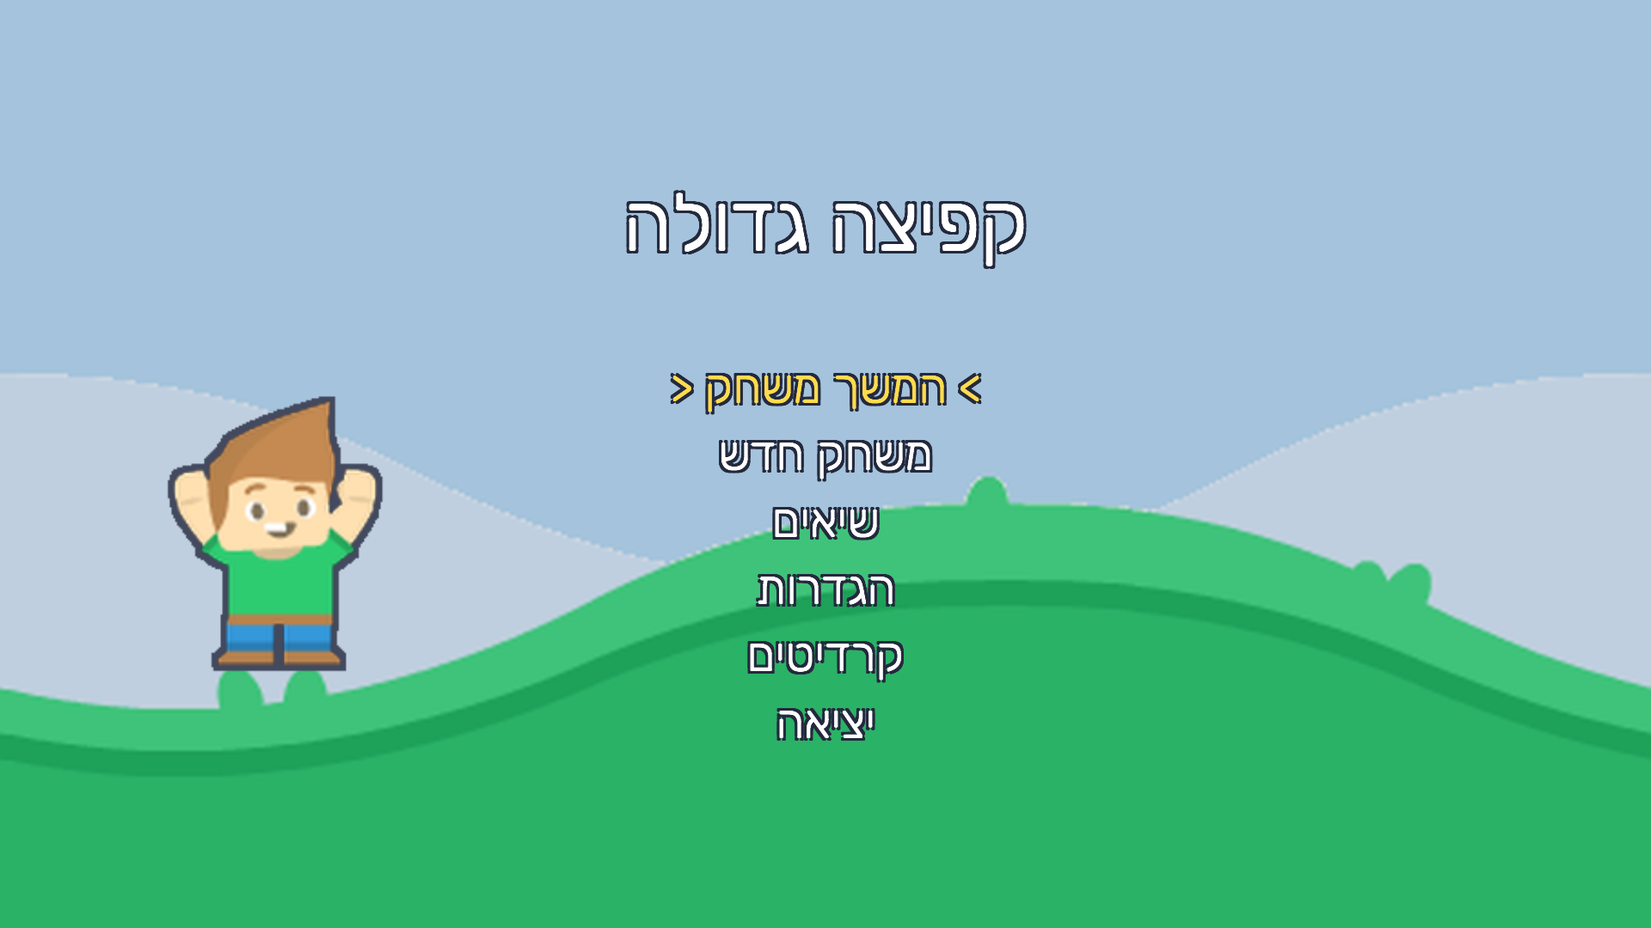
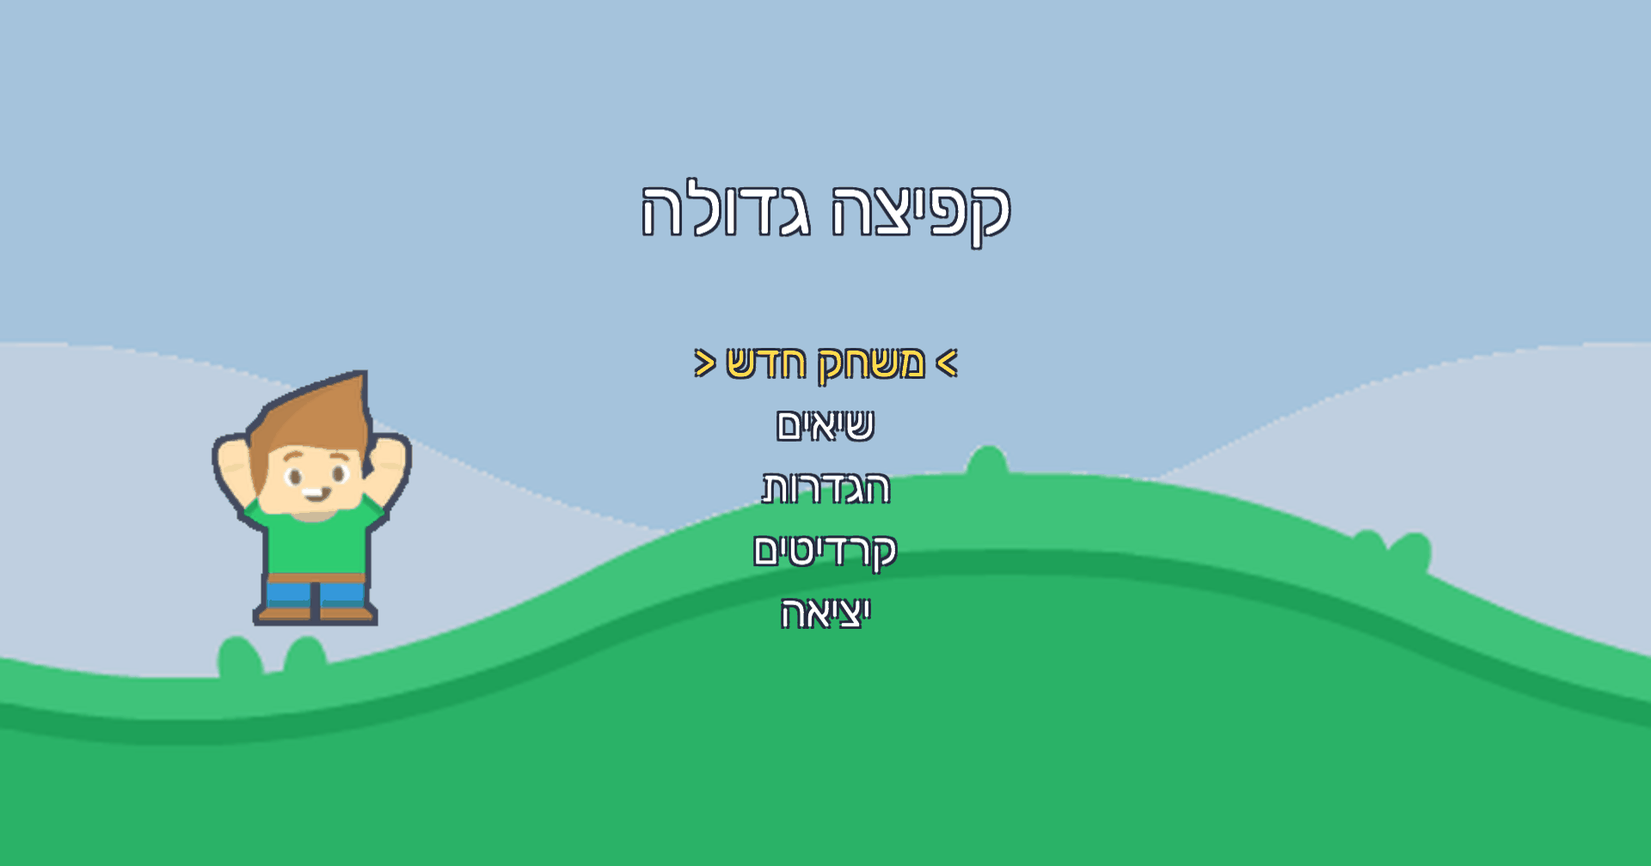
Version 1.2.0: new levels, reachability check, sevivon weapon, touch settings, gamepad, stars and checkpoints
Every level is rebuilt around one idea with its own bonus room, three stars and a
checkpoint. The build now fails if anything required cannot be reached.

diff --git a/docs/index.html b/docs/index.html
@@ -41,27 +41,31 @@ footer a{color:inherit}
 <body>
 <main>
 <h1>קפיצה גדולה</h1>
-<p class="lead">פלטפורמר דו-ממדי בעברית. שני עולמות, שבעה שלבים ובוס אחד.</p>
+<p class="lead">פלטפורמר דו-ממדי בעברית. שבעה שלבים, לכל אחד רעיון משלו: קפיצים, מעליות, טיפוס, רוח, שיטפון, חושך ומרדף.</p>
 
 <section class="downloads" aria-label="הורדה">
 <div>
-<a class="btn phone" href="https://github.com/israelb014/kfitsa-gdola/releases/download/v1.1.0/KfitsaGdola-android.apk"><span>הורדה</span><span dir="ltr">Android</span><small>47 מגה-בייט</small></a>
+<a class="btn phone" href="https://github.com/israelb014/kfitsa-gdola/releases/download/v1.2.0/KfitsaGdola-android.apk"><span>הורדה</span><span dir="ltr">Android</span><small>47 מגה-בייט</small></a>
 <p class="note">נבדק באמולטור, עדיין לא בטלפון אמיתי.</p>
 </div>
 <div>
-<a class="btn" href="https://github.com/israelb014/kfitsa-gdola/releases/download/v1.1.0/KfitsaGdola-linux.tar.gz"><span>הורדה</span><span dir="ltr">Linux</span><small>45 מגה-בייט</small></a>
+<a class="btn" href="https://github.com/israelb014/kfitsa-gdola/releases/download/v1.2.0/KfitsaGdola-linux.tar.gz"><span>הורדה</span><span dir="ltr">Linux</span><small>45 מגה-בייט</small></a>
 </div>
 <div>
-<a class="btn win" href="https://github.com/israelb014/kfitsa-gdola/releases/download/v1.1.0/KfitsaGdola-windows.zip"><span>הורדה</span><span dir="ltr">Windows</span><small>48 מגה-בייט</small></a>
+<a class="btn win" href="https://github.com/israelb014/kfitsa-gdola/releases/download/v1.2.0/KfitsaGdola-windows.zip"><span>הורדה</span><span dir="ltr">Windows</span><small>48 מגה-בייט</small></a>
 <p class="note">הגרסה הזו נבנתה, אבל עדיין לא נבדקה בהרצה.</p>
 </div>
 </section>
 
 <section class="shots" aria-label="תמונות מהמשחק">
 <img src="img/title.png" width="1920" height="1080" alt="מסך הפתיחה של המשחק עם הגיבור והתפריט">
-<img src="img/level1.png" width="1920" height="1080" alt="השלב הראשון בעולם הגבעות הירוקות">
-<img src="img/desert.png" width="1920" height="1080" alt="שלב בעולם המדבר עם קקטוסים ואויבים" loading="lazy">
-<img src="img/boss.png" width="1920" height="1080" alt="הקרב מול מלך הג'לי" loading="lazy">
+<img src="img/l1.png" width="1920" height="1080" alt="שלב הקפיצים בעולם הירוק">
+<img src="img/l6belts.png" width="1920" height="1080" alt="שלב החושך עם מסועים ואור סביב הגיבור" loading="lazy">
+<img src="img/l5.png" width="1920" height="1080" alt="הגאות מציפה את הערוץ בשלב המים" loading="lazy">
+<img src="img/l7.png" width="1920" height="1080" alt="מלך הג'לי רודף אחרי הגיבור" loading="lazy">
+<img src="img/map.png" width="1920" height="1080" alt="מפת המסע עם שלושה כוכבים לכל שלב" loading="lazy">
+<img src="img/power.png" width="1920" height="1080" alt="קופסאות הכוח עם הפרס שמרחף מעליהן" loading="lazy">
+<img src="img/controls.png" width="1920" height="1080" alt="מסך הגדרות השליטה בטלפון" loading="lazy">
 </section>
 
 <section>
@@ -79,7 +83,7 @@ footer a{color:inherit}
 <section>
 <p class="eyebrow" dir="ltr">Linux</p>
 <h2>הרצה מהטרמינל</h2>
-<pre><code>curl -LO https://github.com/israelb014/kfitsa-gdola/releases/download/v1.1.0/KfitsaGdola-linux.tar.gz
+<pre><code>curl -LO https://github.com/israelb014/kfitsa-gdola/releases/download/v1.2.0/KfitsaGdola-linux.tar.gz
 tar xzf KfitsaGdola-linux.tar.gz
 cd linux
 ./KfitsaGdola.x86_64</code></pre>

diff --git a/tools/make_levels.py b/tools/make_levels.py
@@ -54,7 +54,7 @@ def w1l1():
     """Springs. Met on open ground, then the only way up a wall, then chained over pits; the twist is a tower of springs."""
     l = L(214, idea='springs')
     # Met safely: flat ground, nothing to lose
-    l.ground(0, 42, 2); l.put(3, 2, 'S'); l.put(6, 2, '>'); l.put(11, 2, ',')
+    l.ground(0, 42, 2); l.put(9, 2, 'S'); l.put(6, 2, '>'); l.put(11, 2, ',')
     l.put(13, 5, '?'); l.put(16, 5, '!'); l.put(19, 5, '?'); l.put(24, 2, 'e')
     l.put(30, 2, 'T'); l.col(30, 5, 10); l.row(33, 38, 8); l.line(33, 38, 9); l.put(37, 2, '%')
     # The wall: a spring is the only way over. A false wall on the far side hides the first star
@@ -84,7 +84,7 @@ def w1l1():
 def w1l2():
     """Moving platforms. Met over a shallow ditch, then over pits and as lifts; the twist is a relay out of step."""
     l = L(244, idea='moving')
-    l.ground(0, 34, 2); l.put(3, 2, 'S'); l.put(7, 2, '%')
+    l.ground(0, 34, 2); l.put(9, 2, 'S'); l.put(7, 2, '%')
     # Two power boxes right at the start: big, then the sevivon
     l.put(11, 5, '!'); l.put(12, 5, 'b'); l.put(13, 5, 'b'); l.put(14, 5, '!'); l.put(22, 2, 'e'); l.put(26, 2, 'e'); l.put(30, 2, 'n')
     # Met safely: a ditch you can walk out of
@@ -113,7 +113,7 @@ def w1l3():
     W, H = 58, 84
     l = L(W, H, 'climb')
     M = 36
-    l.ground(0, M-1, 2, '#'); l.put(4, 2, 'S'); l.put(9, 2, ','); l.put(14, 2, 'e')
+    l.ground(0, M-1, 2, '#'); l.put(11, 2, 'S'); l.put(9, 2, ','); l.put(14, 2, 'e')
     def slab(y, gap0, gap1):
         l.row(0, gap0-1, y); l.row(gap1+1, M-1, y)
     # Met safely: wide steps, a slab under every part of the climb
@@ -147,7 +147,7 @@ def w1l3():
 def w2l1():
     """Wind. Felt on safe ground, then gaps that need a calm or a tailwind; the twist is rising air that lifts you."""
     l = L(246, idea='wind')
-    l.ground(0, 44, 2); l.put(3, 2, 'S'); l.put(7, 2, 'k'); l.put(12, 5, '!'); l.put(15, 5, '!'); l.put(13, 5, 'b'); l.put(14, 5, 'b'); l.put(22, 2, 'e')
+    l.ground(0, 44, 2); l.put(9, 2, 'S'); l.put(7, 2, 'k'); l.put(12, 5, '!'); l.put(15, 5, '!'); l.put(13, 5, 'b'); l.put(14, 5, 'b'); l.put(22, 2, 'e')
     # Met safely: a headwind on flat ground
     l.note('wind 26 44 0 15 -5 3 3'); l.put(30, 2, 'k'); l.line(28, 42, 3); l.put(38, 2, 'n')
     # Gaps: the same gust now decides whether a jump lands
@@ -177,7 +177,7 @@ def w2l2():
     W, H = 240, 34
     l = L(W, H, 'water')
     M = 214
-    l.ground(0, 26, 2); l.put(3, 2, 'S'); l.put(8, 2, 'r'); l.put(11, 5, '!'); l.put(14, 5, '!'); l.put(12, 5, 'b'); l.put(13, 5, 'b')
+    l.ground(0, 26, 2); l.put(9, 2, 'S'); l.put(8, 2, 'r'); l.put(11, 5, '!'); l.put(14, 5, '!'); l.put(12, 5, 'b'); l.put(13, 5, 'b')
     l.note('tide -1 5.2 10 27 150')
     # Rocks stand above the high tide; the ground between them drowns
     def rock(x0, x1, top=6):
@@ -209,7 +209,7 @@ def w2l3():
     """Darkness. Torches light the first steps; then they thin out; the twist is conveyors in the dark."""
     l = L(262, idea='dark')
     l.note('dark 5.5')
-    l.ground(0, 40, 2); l.put(3, 2, 'S'); l.fill(0, 40, 13, 14, '#')
+    l.ground(0, 40, 2); l.put(9, 2, 'S'); l.fill(0, 40, 13, 14, '#')
     for x in (6, 14, 22, 30, 38): l.put(x, 2, '|')
     l.put(10, 5, '!'); l.put(13, 5, '!'); l.put(11, 5, 'b'); l.put(12, 5, 'b'); l.put(19, 2, 'e'); l.put(27, 2, 'n')
     # Met safely: a pit only where a torch shows it
@@ -239,8 +239,8 @@ def w2l3():
 def boss():
     """A chase. The king runs you down the road first; the flag stops him; then you fight him on crumbling ground."""
     l = L(236, idea='chase')
-    l.note('chase 9 -6 6.6 124')
-    l.ground(0, 34, 2); l.put(3, 2, 'S'); l.put(8, 2, '|')
+    l.note('chase 14 -4 6.6 124')
+    l.ground(0, 34, 2); l.put(9, 2, 'S'); l.put(8, 2, '|')
     # Met safely: nothing but open road for a few seconds
     l.put(20, 5, '!'); l.put(23, 5, '!'); l.put(21, 5, 'b'); l.put(22, 5, 'b')
     l.ground(38, 54, 3); l.put(46, 3, 'e'); l.line(40, 52, 6)

diff --git a/Assets/Scripts/Bot.cs b/Assets/Scripts/Bot.cs
@@ -48,7 +48,7 @@ namespace Kfitsa
             {
                 string form = big ? "big" : "small";
                 var s = Reach.Start(def, big, false, false);
-                s.seconds = 60;
+                s.seconds = 120;
                 s.stopAfterHits = s.goals.Count(q => q.kind != "coin");
                 s.Run();
                 foreach (var q in s.goals)
@@ -110,7 +110,17 @@ namespace Kfitsa
             var goal = s.goals.Find(q => q.node >= 0);
             if (goal == null) return false;
             int deaths = G.deaths;
-            foreach (var p in s.Route(goal)) { G.TestStep(1, p); if (G.deaths != deaths || !G.Running || G.Won) break; }
+            var check = new System.Collections.Generic.Dictionary<int, Vector2>();
+            foreach (var m in s.Marks(goal)) check[m.tick] = new Vector2(m.x, m.y);
+            int step = 0; bool off = false;
+            foreach (var p in s.Route(goal))
+            {
+                G.TestStep(1, p); step++;
+                if (G.deaths != deaths || !G.Running || G.Won) break;
+                // An enemy knocked the hero off the route: stop here, so the caller can plan a new one
+                if (check.TryGetValue(step, out var at) && (at - new Vector2(G.hero.x, G.hero.y)).sqrMagnitude > .04f) off = true;
+                if (off && G.hero.grounded) break;
+            }
             return G.deaths == deaths;
         }
 
@@ -187,13 +197,16 @@ namespace Kfitsa
         {
             Fresh(index, 0, true);
             int plans = 0;
-            while (G.Running && !G.Won && G.levelTime < 400 && plans < 120)
+            while (G.Running && !G.Won && G.levelTime < 400 && plans < 10)
             {
                 plans++;
                 if (G.boss != null && G.boss.alive && G.hero.x > G.boss.x - 24) { FightBoss(); continue; }
-                Drive(def, q => q.kind == "gate", false, 30);
+                int falls = G.deaths;
+                bool found = Drive(def, q => q.kind == "gate", false, 60);
+                // After a fall, set off a little later, so the same enemy is not met at the same moment again
+                if (G.deaths != falls) { G.TestStep(280, default); G.TestStep(47 * G.deaths, default); continue; }
+                if (!found) Note($"     route {plans}: stopped at {G.hero.x:F1},{G.hero.y:F1} clock {G.world.t:F1}, falls {G.deaths}");
                 if (G.grid != null && G.grid.AtGate(G.hero) && G.boss != null && G.boss.alive) { FightBoss(); }
-                G.TestStep(30, default);
             }
             Check($"{def.file}: played start to finish with enemies", G.Won, $"{G.levelTime:F1}s, {G.deaths} falls, {G.hits} hits, {plans} routes");
         }

diff --git a/Assets/Scripts/Game.cs b/Assets/Scripts/Game.cs
@@ -74,7 +74,7 @@ namespace Kfitsa
         float camMin, camMax, camTop;
         int stompChain;
         bool checkpointSet, pendingDoor, lastDown;
-        Pad pad; bool latchedJump, latchedRun;
+        Pad pad; bool latchedJump, latchedRun, latchedThrow;
 
         public void Init(App a) { app = a; cam = Camera.main; }
 
@@ -249,6 +249,7 @@ namespace Kfitsa
             var live = GameInput.Read();
             latchedJump |= live.jumpPressed;
             latchedRun |= live.runPressed;
+            latchedThrow |= live.throwPressed;
             pad = live;
 
             const float dt = 1f / Tune.SimHz;
@@ -257,7 +258,7 @@ namespace Kfitsa
             {
                 acc -= dt;
                 Sim(dt);
-                pad.jumpPressed = false; latchedJump = false; latchedRun = false;
+                pad.jumpPressed = false; latchedJump = false; latchedRun = false; latchedThrow = false;
             }
             if (grid != null) Draw();
         }
@@ -267,7 +268,7 @@ namespace Kfitsa
         {
             for (int i = 0; i < steps && grid != null; i++)
             {
-                pad = p; latchedJump = p.jumpPressed; latchedRun = p.runPressed;
+                pad = p; latchedJump = p.jumpPressed; latchedRun = p.runPressed; latchedThrow = p.throwPressed;
                 Sim(1f / Tune.SimHz);
                 p.jumpPressed = false; p.runPressed = false; p.throwPressed = false;
             }
@@ -283,7 +284,7 @@ namespace Kfitsa
         void Sim(float dt)
         {
             simT += dt;
-            var input = pad; input.jumpPressed = latchedJump; input.runPressed = latchedRun;
+            var input = pad; input.jumpPressed = latchedJump; input.runPressed = latchedRun; input.throwPressed = latchedThrow;
 
             if (phase == Phase.Intro)
             {

diff --git a/Assets/Scripts/Editor/BuildTools.cs b/Assets/Scripts/Editor/BuildTools.cs
@@ -178,11 +178,26 @@ namespace Kfitsa.EditorTools
         /// Run by every build: a level with anything unreachable stops it.
         public static void Validate()
         {
+            // A passed check holds until a level or a rule changes, so the three platform builds run it once
+            string stamp = "Library/reach_passed.txt", now = Fingerprint();
+            if (File.Exists(stamp) && File.ReadAllText(stamp) == now) { Debug.Log("VALIDATE OK (nothing changed since it last passed)"); return; }
             Levels.Folder = "Assets/Resources/Levels";
             bool ok = Reach.ValidateAll("verification/v1.2/reach_report.txt");
             Levels.Folder = null;
             Debug.Log("VALIDATE " + (ok ? "OK" : "FAILED, see verification/v1.2/reach_report.txt"));
             if (!ok) throw new BuildFailedException("Levels failed the reachability check, see verification/v1.2/reach_report.txt");
+            File.WriteAllText(stamp, now);
+        }
+
+        static string Fingerprint()
+        {
+            using var md5 = System.Security.Cryptography.MD5.Create();
+            var all = new System.Text.StringBuilder();
+            var files = new System.Collections.Generic.List<string>(Directory.GetFiles("Assets/Resources/Levels", "*.txt"));
+            foreach (string name in new[] { "Tune", "Player", "Body", "Grid", "World", "Reach", "Actors" }) files.Add("Assets/Scripts/" + name + ".cs");
+            files.Sort(StringComparer.Ordinal);
+            foreach (string f in files) all.Append(f).Append(BitConverter.ToString(md5.ComputeHash(File.ReadAllBytes(f))));
+            return all.ToString();
         }
 
         static void Build(string path, BuildTarget target)

diff --git a/tools/emu_gamepad.py b/tools/emu_gamepad.py
@@ -1,0 +1,21 @@
+#!/usr/bin/env python3
+"""Prints uinput commands for the Android `uinput -` tool: a virtual gamepad that presses, moves right, and lets go.
+Usage: tools/emu_gamepad.py | adb shell uinput -"""
+import json, sys, time
+EV_SYN, EV_KEY, EV_ABS = "EV_SYN", "EV_KEY", "EV_ABS"
+A, B, X, Y, START = "BTN_SOUTH", "BTN_EAST", "BTN_WEST", "BTN_NORTH", "BTN_START"
+ABS_X, ABS_Y = "ABS_X", "ABS_Y"
+reg = {"id": 1, "command": "register", "name": "Test Gamepad", "vid": 0x045e, "pid": 0x028e, "bus": "bluetooth",
+       "configuration": [{"type": "UI_SET_EVBIT", "data": [EV_KEY, EV_ABS]},
+                         {"type": "UI_SET_KEYBIT", "data": [A, B, X, Y, START]},
+                         {"type": "UI_SET_ABSBIT", "data": [ABS_X, ABS_Y]}],
+       "abs_info": [{"code": ABS_X, "info": {"value": 0, "minimum": -32768, "maximum": 32767, "fuzz": 0, "flat": 0, "resolution": 0}},
+                    {"code": ABS_Y, "info": {"value": 0, "minimum": -32768, "maximum": 32767, "fuzz": 0, "flat": 0, "resolution": 0}}]}
+def out(o): print(json.dumps(o)); sys.stdout.flush()
+def inject(*ev): out({"id": 1, "command": "inject", "events": [x for e in ev for x in e] + [EV_SYN, "SYN_REPORT", 0]})
+def wait(ms): out({"id": 1, "command": "delay", "duration": ms})
+out(reg); wait(1500)
+inject((EV_ABS, ABS_X, 32000)); wait(1500)          # stick right
+inject((EV_KEY, A, 1)); wait(400); inject((EV_KEY, A, 0)); wait(800)
+inject((EV_ABS, ABS_X, 0)); wait(1000)
+inject((EV_KEY, START, 1)); wait(200); inject((EV_KEY, START, 0)); wait(1000)

diff --git a/Assets/Scripts/Mechanics.cs b/Assets/Scripts/Mechanics.cs
@@ -5,8 +5,11 @@ namespace Kfitsa
     /// Game's view of the level mechanics: building them, drawing them, and running the bonus room.
     public partial class Game
     {
+        bool chaseOver;
+
         void BuildMechanics()
         {
+            chaseOver = checkpointSet;
             int starId = 0;
             foreach (var at in grid.Stars)
             {
@@ -196,6 +199,11 @@ namespace Kfitsa
             {
                 float front = World.ChaseAt(grid, world);
                 chaser.enabled = front > -50 && front < grid.Chase.end;
+                if (front >= grid.Chase.end && !chaseOver)
+                {
+                    chaseOver = true; shake = .3f; Sound.Play("brick");
+                    app.hud.Hint(3f, Rtl.V("המלך נעצר! הוא מחכה בזירה"));
+                }
                 chaser.transform.position = new Vector3(front - 1.3f, hero.y > 2 ? Mathf.Max(ChaserFloor(front), 2) : 2, 0);
                 chaser.sprite = Art.Feet((int)(simT * 8) % 2 == 0 ? "boss_walk_a" : "boss_walk_b");
                 chaser.flipX = true;

diff --git a/Assets/Scripts/World.cs b/Assets/Scripts/World.cs
@@ -149,8 +149,8 @@ namespace Kfitsa
             return (d, z);
         }
 
-        /// The crumbling ledge under the feet, as a key, or -1. A ledge counts as one piece, which is
-        /// stricter than the game, where each block falls on its own.
+        /// The crumbling ledge under the feet, as a key, or -1. Every three blocks count as one piece, which is
+        /// stricter than the game, where each block falls on its own, but still lets a hero run along a bridge.
         public static int CrumbleUnder(Grid2 g, Player h)
         {
             if (!h.grounded || h.on != null) return -1;
@@ -161,7 +161,7 @@ namespace Kfitsa
                 if (g.At(c, row) != 'u') { if (g.Solid(c, row)) return -1; continue; }
                 int left = c;
                 while (g.At(left - 1, row) == 'u') left--;
-                key = row * 4096 + left;
+                key = row * 4096 + left + (c - left) / 3 * 3;
             }
             return key;
         }

diff --git a/Assets/Scripts/App.cs b/Assets/Scripts/App.cs
@@ -408,7 +408,7 @@ namespace Kfitsa
         public void ShowPause()
         {
             screen = Screen.Paused; game.paused = true; Sound.Duck(true); Sound.Play("select");
-            hud.Banner("");
+            hud.Banner(""); hud.Hint(0, "");
             var list = new List<MenuItem>
             {
                 Item("המשך", Resume),

diff --git a/DECISIONS.md b/DECISIONS.md
@@ -17,3 +17,17 @@
 - Android: רמת היעד 34, ובמניפסט כבוי החזור החזוי. בלי זה המערכת סוגרת את המשחק בלחיצה על חזור.
 - Android: רק ARM64, כי Unity 6.6 הסיר את התמיכה ב-x86_64.
 - מסכים רחבים: גובה הקנבס נשאר 1080 והרוחב גדל. המשחק מראה יותר רוחב ולא משנה את התחושה.
+
+## גרסה 1.2
+
+- שלב אחד, רעיון אחד: 1-1 קפיצים, 1-2 פלטפורמות נעות, 1-3 טיפוס אנכי עם אבנים מתמוטטות, 2-1 רוח, 2-2 גאות ושיטפון, 2-3 חושך עם מסועים, בוס מרדף. כל שלב מציג את הרעיון בלי סכנה, מפתח אותו, ואחרי נקודת הביקורת משלב אותו בטוויסט.
+- חדרי הבונוס: 1-1 מטבעות על זמן, 1-2 מרוץ בלי אויבים, 1-3 דרך נסתרת, 2-1 מתג רוח, 2-2 בריכה וקוביות, 2-3 הדלקת לפידים, בוס הבסת ג'לי על זמן. הפרס בכל חדר הוא הכוכב השלישי של השלב.
+- הנשק: סביבון שקופץ על הקרקע וחוזר פעם אחת מקיר. נבחר כי הוא מקורי ומתאים למשחק בעברית.
+- הסיבה שהנשק לא הושג בגרסה הקודמת: קופסת הכוח ישבה 5 אריחים מעל הקרקע, הפרס נשאר עליה, והקפיצה הכי גבוהה היא 4.93. הקופסאות ירדו אריח אחד, ומעליהן מרחף הפרס שתקבלו.
+- פגיעה מורידה דרגה אחת בלבד: סביבון, גדול, קטן. המוות מחזיר לקטן. זה מקל על שמירת הנשק.
+- מצלמה: עכשיו אפשר ללכת אחורה, כדי לחזור לכוכב שהוחמץ. מספרי התנועה לא השתנו. בשלבים גבוהים המצלמה עוקבת גם לגובה.
+- כל הכללים שמזיזים את הגיבור נמצאים ב-World.cs. המשחק ובודק ההגעה מריצים את אותו קוד, ולכן מסלול שהבודק מצא הוא מסלול שהמשחק מאפשר.
+- בודק ההגעה (Reach.cs) מחפש לחיצות אמיתיות דרך הבקר האמיתי, בצורה קטנה וגדולה, מההתחלה, מנקודת הביקורת ובחדר הבונוס. הוא נכשל על כל מדף, קופסה, כוכב, סוד וסיום שאי אפשר להגיע אליהם, והבנייה נעצרת. בנוסף, הסיום חייב להיות אפשרי בלי להחזיק קפיצה עד הסוף, עם סכנה מהירה ב-15%.
+- בדיקת המשחק (-playtest) מריצה כל מסלול שהבודק מצא בתוך המשחק עצמו, כדי לתפוס פער בין החיפוש למשחק.
+- בדיקות רצות בארגז חול ולא נוגעות בקובץ השמירה של השחקן.
+- לחצן הריצה במצב אוטומטי מוסתר, ובמצב נעילה נדלק בצהוב. לחצן זריקה נפרד מופיע רק כשיש סביבון, כדי שאפשר יהיה לזרוק בכל מצב ריצה.

diff --git a/README.md b/README.md
@@ -5,3 +5,9 @@
 - דף ההורדה: https://israelb014.github.io/kfitsa-gdola/
 - קרדיטים ורישיונות: [CREDITS.md](CREDITS.md)
 - הקבצים הבינאריים נשמרים ב-Git LFS, לכן צריך להתקין אותו לפני שמשכפלים את המאגר.
+
+## בדיקות
+
+- שלבים: `python3 tools/make_levels.py Assets/Resources/Levels`
+- בדיקת הגעה לשלבים: `tools/validate.sh`
+- כל בנייה רשמית מריצה את בדיקת ההגעה ונכשלת אם משהו לא ניתן להגעה.
